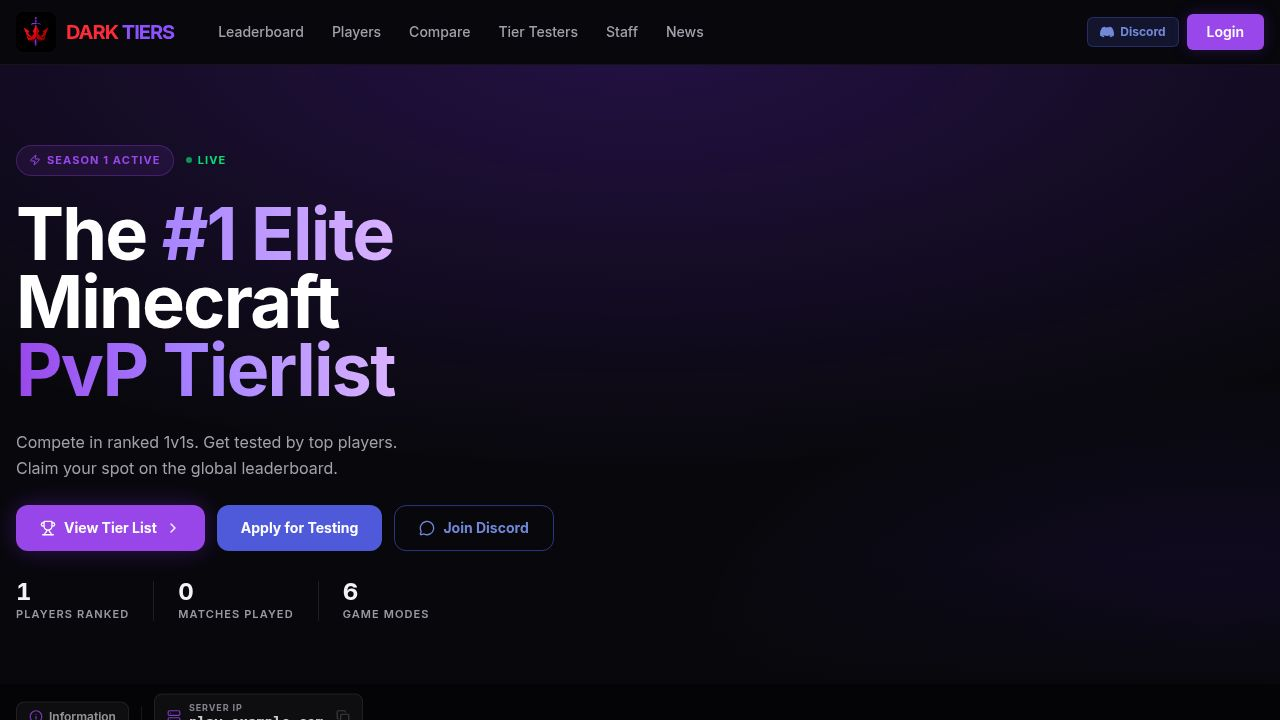
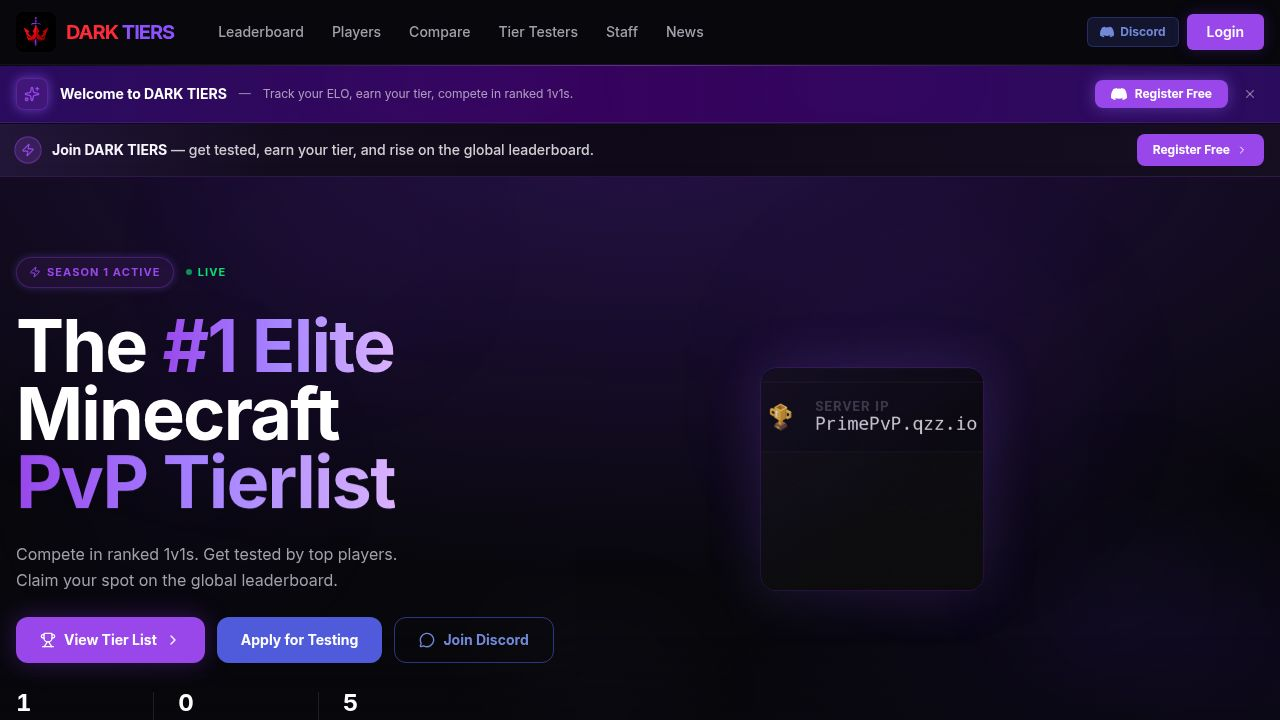
Add server IP image and improve homepage layout for better user experience
Add server IP image to the homepage hero section and adjust layout for improved visual presentation.

Replit-Commit-Author: Agent
Replit-Commit-Session-Id: 8d72a9ed-0003-4a41-8c82-661bde270013
Replit-Commit-Checkpoint-Type: full_checkpoint
Replit-Commit-Event-Id: 78b00206-b703-4c5f-a6a6-a45610ccc32a
Replit-Commit-Screenshot-Url: https://storage.googleapis.com/screenshot-production-us-central1/56e8c49f-fc51-4243-bf38-8103a80d8b99/8d72a9ed-0003-4a41-8c82-661bde270013/PyYd8XJ
Replit-Helium-Checkpoint-Created: true

diff --git a/artifacts/dark-tiers/src/pages/home.tsx b/artifacts/dark-tiers/src/pages/home.tsx
@@ -1,5 +1,5 @@
 import { useEffect, useRef, useState, useCallback } from "react";
-import { useGetStats, useGetRecentActivity, useGetLeaderboard, useGetSettings } from "@workspace/api-client-react";
+import { useGetStats, useGetRecentActivity, useGetLeaderboard, useGetSettings, useGetMe } from "@workspace/api-client-react";
 import { Link } from "wouter";
 import { TierBadge } from "../components/ui/tier-badge";
 import { motion, useInView, AnimatePresence } from "framer-motion";
@@ -277,11 +277,13 @@ export default function Home() {
   const { data: activity }     = useGetRecentActivity();
   const { data: leaderboard }  = useGetLeaderboard({ limit: 5 });
   const { data: settingsData } = useGetSettings();
+  const { data: me, isLoading: meLoading } = useGetMe();
 
   const settings    = settingsData as any;
   const serverIp    = settings?.serverIp  || "";
   const discordUrl  = settings?.discordUrl || "https://discord.gg/mWHwDR8bg7";
   const recentMatches = activity?.recentMatches ?? [];
+  const isLoggedIn  = !meLoading && !!me;
   const [showInfo, setShowInfo] = useState(false);
   const heroRef = useRef<HTMLElement | null>(null);
   const spotlight = useMouseSpotlight(heroRef);
@@ -327,7 +329,8 @@ export default function Home() {
         </div>
 
         <div className="relative z-10 w-full max-w-7xl mx-auto px-4 pt-16 pb-14 md:pt-20 md:pb-16">
-          <div className="flex flex-col gap-6 max-w-2xl">
+          <div className="flex flex-col lg:flex-row items-start gap-10 lg:gap-16">
+          <div className="flex flex-col gap-6 max-w-2xl flex-1">
             {/* Eyebrow */}
             <motion.div initial={{ opacity: 0, y: 16 }} animate={{ opacity: 1, y: 0 }} transition={{ duration: 0.5 }}
               className="flex items-center gap-3">
@@ -385,6 +388,44 @@ export default function Home() {
               <div className="w-px h-10 bg-white/10" />
               <Counter value={8} label="Game Modes" />
             </motion.div>
+          </div>
+
+          {/* ── Hero right: Server IP image card ── */}
+          <motion.div
+            initial={{ opacity: 0, x: 40, scale: 0.95 }}
+            animate={{ opacity: 1, x: 0, scale: 1 }}
+            transition={{ duration: 0.7, delay: 0.45, ease: EASE }}
+            className="hidden lg:flex flex-col items-center gap-4 flex-shrink-0 self-center"
+          >
+            {/* Glowing frame around the image */}
+            <motion.div
+              className="relative rounded-2xl overflow-hidden border border-primary/30 shadow-[0_0_60px_rgba(139,92,246,0.25)] hover:shadow-[0_0_80px_rgba(139,92,246,0.4)] transition-shadow duration-500"
+              whileHover={{ scale: 1.03, y: -4 }}
+              transition={{ duration: 0.25 }}
+            >
+              <img
+                src="/server-ip.jpg"
+                alt="Server IP: PrimePvP.qzz.io"
+                className="w-56 h-auto object-contain"
+              />
+              {/* Overlay glow effect */}
+              <div className="absolute inset-0 pointer-events-none rounded-2xl"
+                style={{ background: "linear-gradient(135deg, rgba(139,92,246,0.08) 0%, transparent 60%)" }} />
+            </motion.div>
+            {/* Label below */}
+            <motion.div
+              initial={{ opacity: 0 }} animate={{ opacity: 1 }} transition={{ delay: 0.9 }}
+              className="flex items-center gap-2 text-[11px] text-muted-foreground font-semibold uppercase tracking-widest"
+            >
+              <motion.span
+                className="w-1.5 h-1.5 rounded-full bg-green-400"
+                animate={{ opacity: [1, 0.3, 1] }}
+                transition={{ duration: 1.5, repeat: Infinity }}
+              />
+              Server Online
+            </motion.div>
+          </motion.div>
+
           </div>
         </div>
       </section>
@@ -601,8 +642,8 @@ export default function Home() {
         </Reveal>
       </section>
 
-      {/* ══ REGISTER CTA ════════════════════════════════════════ */}
-      <section className="relative overflow-hidden py-20 px-4">
+      {/* ══ REGISTER CTA (only for visitors) ═══════════════════ */}
+      {!isLoggedIn && <section className="relative overflow-hidden py-20 px-4">
         {/* Animated background */}
         <div className="absolute inset-0 pointer-events-none">
           <div className="absolute inset-0" style={{
@@ -674,7 +715,7 @@ export default function Home() {
             </div>
           </div>
         </Reveal>
-      </section>
+      </section>}
 
       {/* ══ INFO MODAL ══════════════════════════════════════════ */}
       {showInfo && <InfoModal onClose={() => setShowInfo(false)} discordUrl={discordUrl} />}